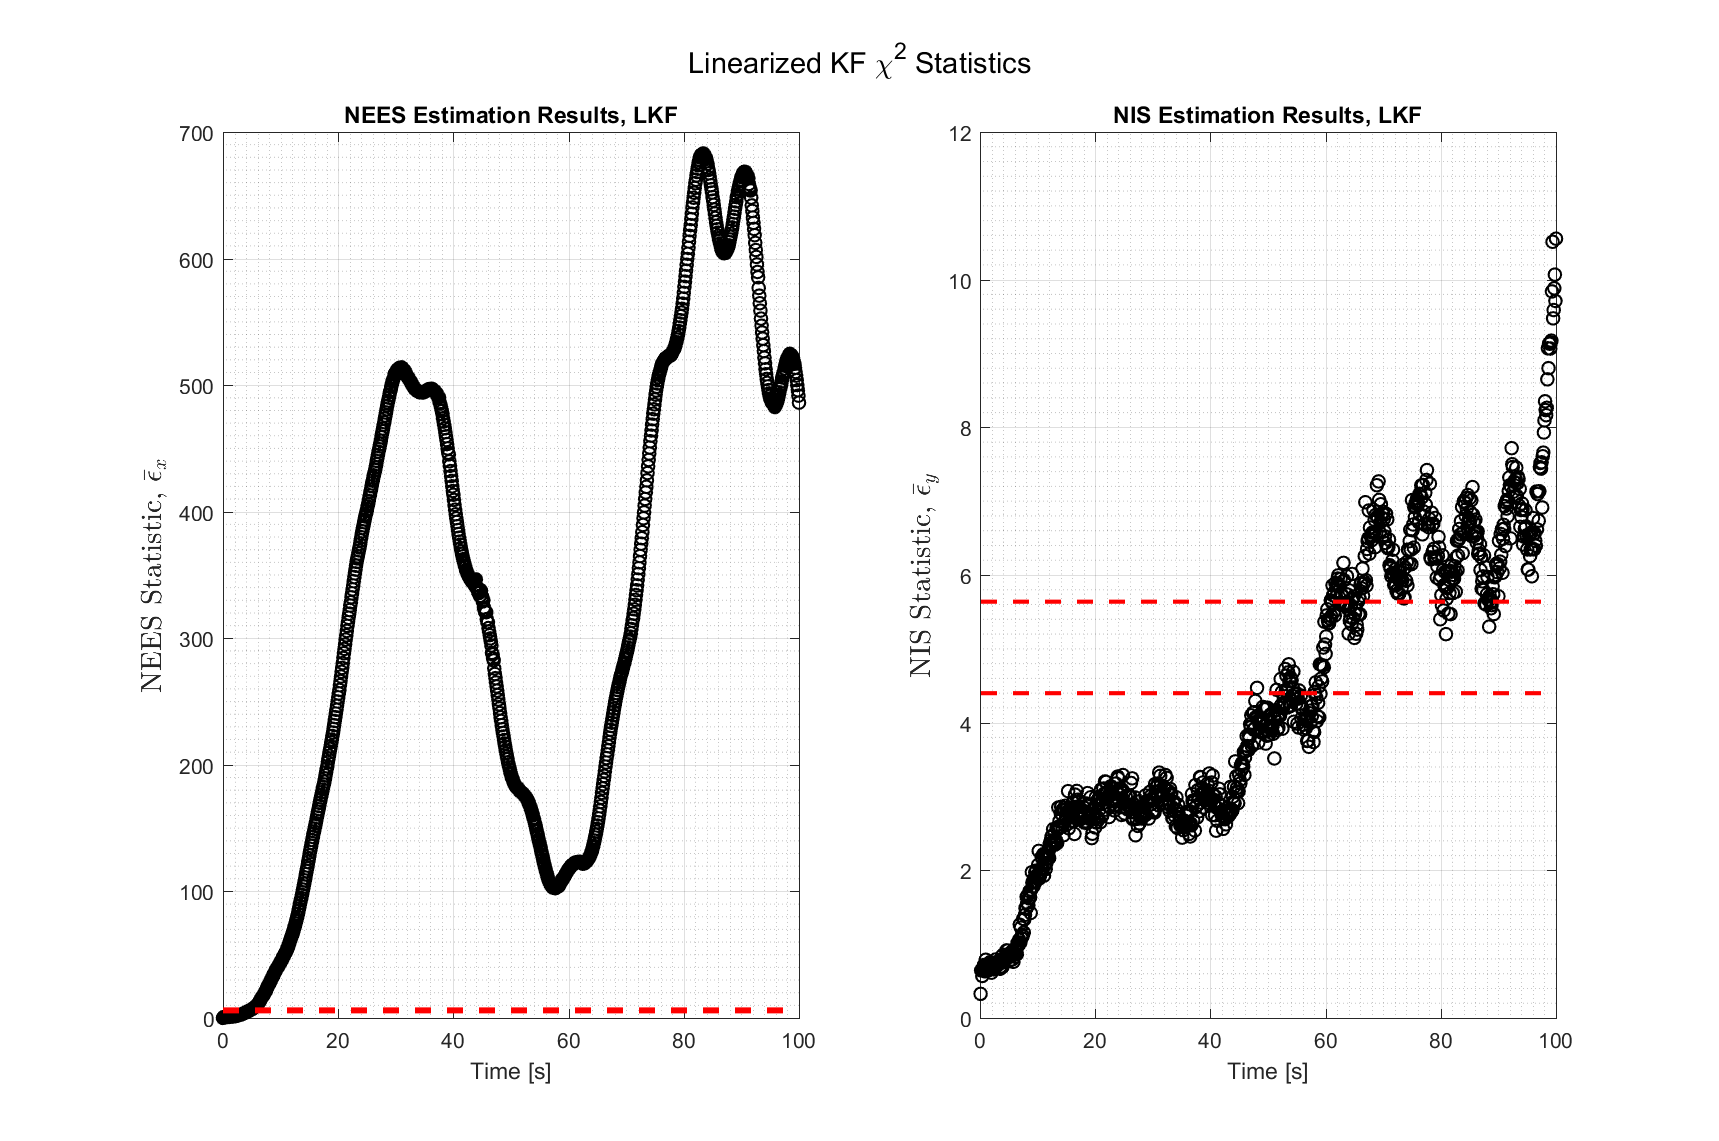
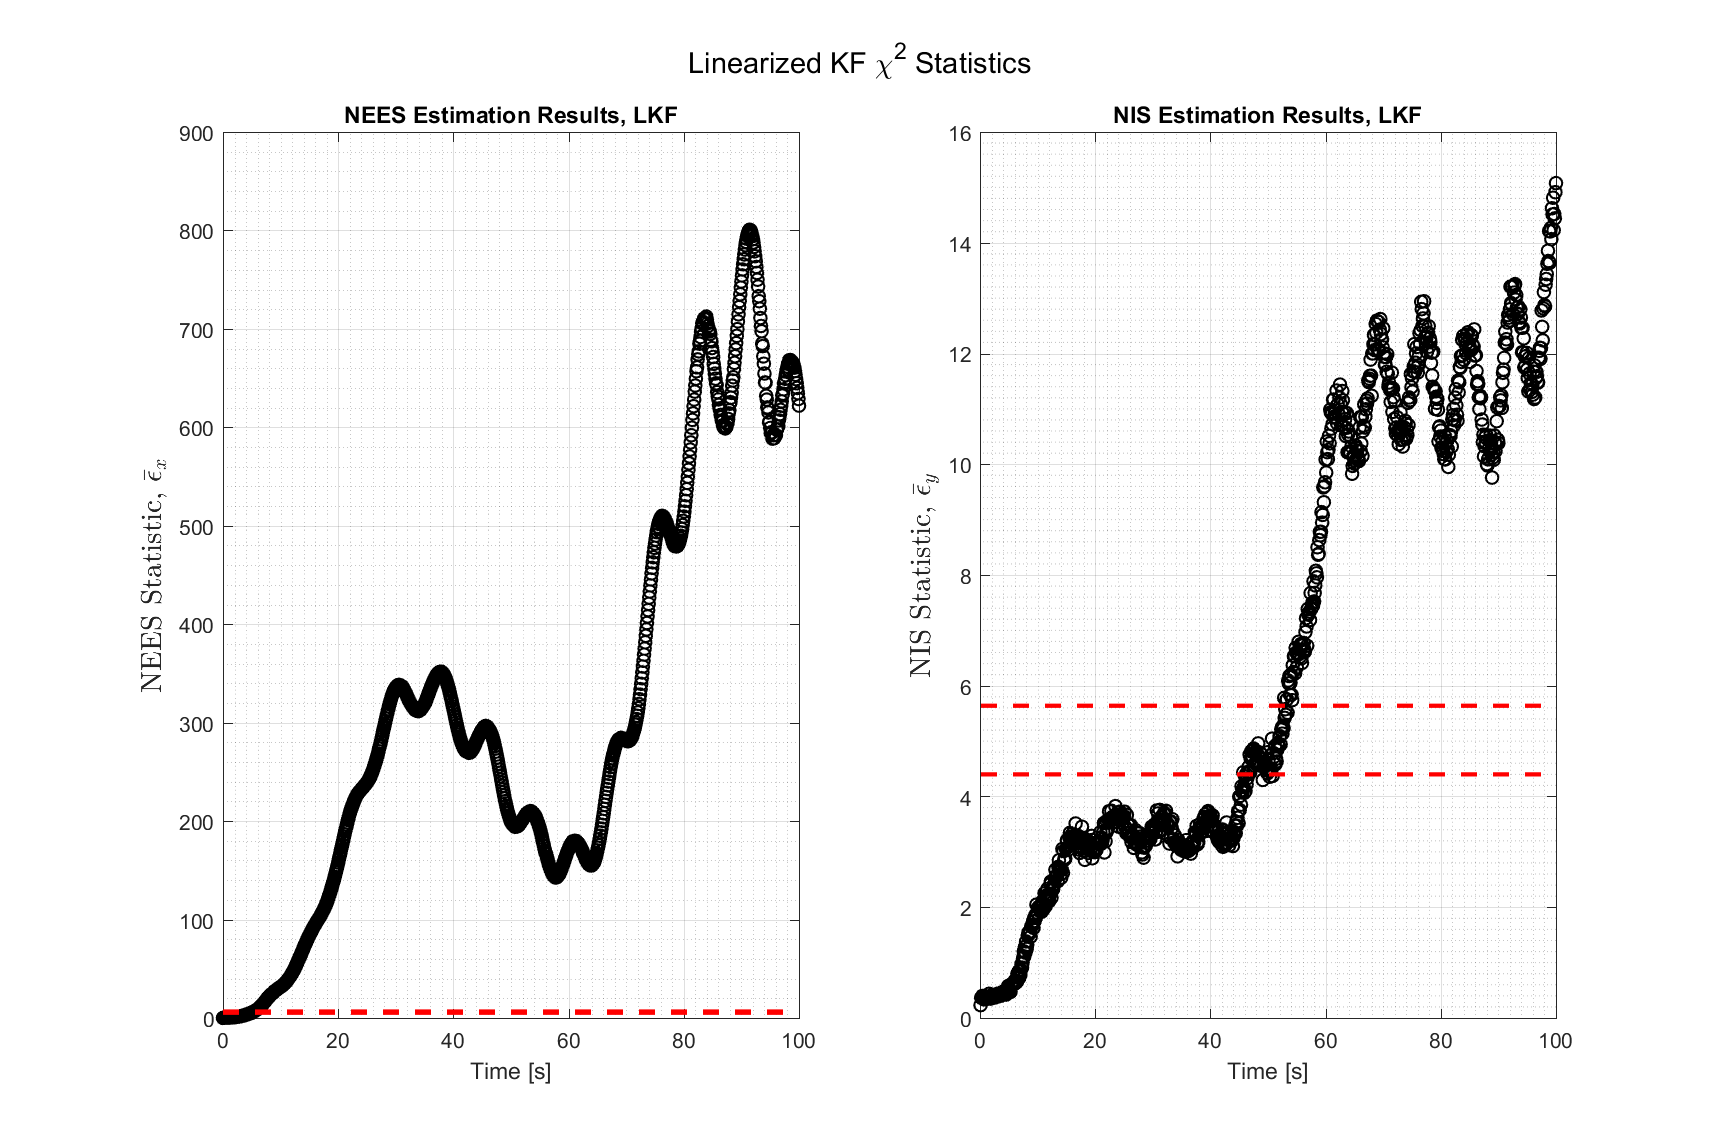
Actually removed angdiff

diff --git a/EKF.m b/EKF.m
@@ -43,7 +43,7 @@ for i = 2:len;
     yhat = h(xminus); %Full nonlinear dynamics
     K = Pminus*H'/Sk; % MATLAB will take inverse
     eyk = y(:,i-1) - yhat;
-    eyk([1 3]) = angdiff(yhat([1 3]),y([1 3],i-1)); %No longer general
+    eyk([1 3]) = wrapToPi(y([1 3],i-1)-yhat([1 3])); %No longer general
     innovation(:,i-1) = eyk; 
     NIS(i-1) = eyk'/Sk*eyk; %Normalized Innovation Squared (NIS)
     x(:,i) = xminus + K*(eyk);

diff --git a/LKF.m b/LKF.m
@@ -35,7 +35,7 @@ for i = 2:len;
     yhat = H*dxminus;
     K = Pminus*H'/Sk; % MATLAB will take inverse
     eyk = dy(:,i-1) - yhat;
-    eyk([1 3]) = angdiff(yhat([1 3]),dy([1 3],i-1)); %no longer general
+    eyk([1 3]) = wrapToPi(dy([1 3],i-1)-yhat([1 3])); %no longer general
     innovation(:,i-1) = eyk;
     epsky(i-1) = eyk'/Sk*eyk; %Normalized Innovation Squared (NIS)
     dx(:,i) = dxminus + K*(eyk);

diff --git a/progress1.m b/progress1.m
@@ -190,7 +190,7 @@ for i = 1:len-1
 end
 
 QLKF = 10000*Qtrue;
-RLKF = 10*Rtrue;
+RLKF = 100*Rtrue;
 P0_LKF = 100*P0; %Cheating?
 
 if runbool(1) && runbool(2)
